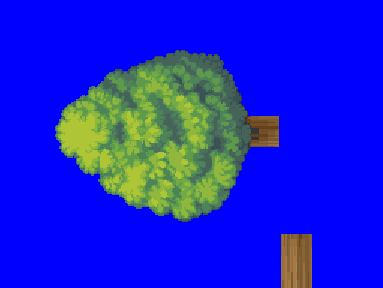
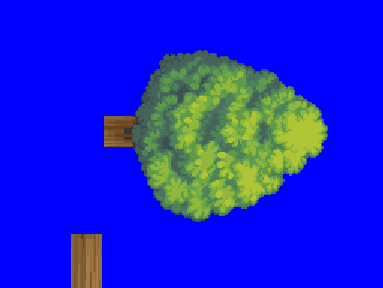
Coreographe falling tree scene + Enable WorldMap to be translated for better view

Changed region(s): [[0.1436, 0.1562, 0.8616, 0.7812], [0.718, 0.8125, 0.8329, 1.0], [0.1723, 0.8125, 0.2872, 1.0]]

diff --git a/GreenBlood/src/br/com/greenblood/world/GameWorld.java b/GreenBlood/src/br/com/greenblood/world/GameWorld.java
@@ -13,6 +13,7 @@ import br.com.greenblood.hud.DirectionalControls;
 import br.com.greenblood.hud.EnemyStatsView;
 import br.com.greenblood.hud.PlayerStatsView;
 import br.com.greenblood.math.Vector2D;
+import br.com.greenblood.pieces.Entity;
 import br.com.greenblood.pieces.World;
 import br.com.greenblood.pieces.movable.Enemy;
 import br.com.greenblood.pieces.movable.Player;
@@ -36,7 +37,8 @@ public class GameWorld {
     private final DirectionalControls controls;
     private final ActionControls actions;
 	private Scene scene;
-	private boolean blockInput;
+	private boolean blockMove;
+	private int offsetX;
     
     private GameWorld(DirectionalControls controls, ActionControls actions) {
         this.controls = controls;
@@ -47,7 +49,8 @@ public class GameWorld {
     }
 
     public void proccessAI(long uptime) {
-    	if(!blockInput)
+    	worldScene.onProcessPhaseStarted();
+    	if(!blockMove)
     		worldScene.processLogics(uptime);
         worldScene.processAnimationLogics(uptime);
     }
@@ -57,7 +60,7 @@ public class GameWorld {
 
         canvas.drawRect(surfaceSize, Paints.BLUE);
 
-        Vector2D offset = worldMap.draw(canvas, player.pos());
+        Vector2D offset = worldMap.draw(canvas, player.pos(), offsetX);
         worldScene.draw(canvas, surfaceSize, offset);
         
         canvas.restore();
@@ -99,14 +102,13 @@ public class GameWorld {
 	public void showEnemyStats(Enemy enemy) {
 		enemyStatsView.display(enemy);
 	}
-
+	
 	public void display(String txt){
-		lockInput();
-		gameActivity.hideControllers();
+		lockScreen();
 		gameActivity.display(txt, new Listener<Void>() {
 			@Override
 			public boolean on(Void t) {
-				unlockInput();
+				unlockMove();
 				gameActivity.dialog().hide();
 				gameActivity.showControllers();
 				return false;
@@ -114,14 +116,31 @@ public class GameWorld {
 		});
 	}
 
-	public void lockInput() {
-		blockInput = true;
+	public void lockScreen() {
+		player.stop();
+		lockMove();
+		gameActivity.hideControllers();
+	}
+	
+	public void unlockScreen() {
+		unlockMove();
+		gameActivity.showControllers();
+	}
+
+	public void lockMove() {
+		blockMove = true;
+	}
+	
+	public void unlockMove() {
+		blockMove = false;
+	}
+
 	public void addEntity(Entity ent) {
 		worldScene.postAdd(ent);
 	}
 	
-	public void unlockInput() {
-		blockInput = false;
+	public void offsetDraw(int offsetX){
+		this.offsetX = offsetX;
 	}
 
 }

diff --git a/GreenBlood/src/br/com/greenblood/history/mock/SceneMaker.java b/GreenBlood/src/br/com/greenblood/history/mock/SceneMaker.java
@@ -85,7 +85,6 @@ public class SceneMaker {
 			tiles[col][16] = floor();
 		}
 		
-		
 		scene.addObjectCreator(new ObjectCreator() {
 			@Override
 			public Entity create() {
@@ -95,7 +94,6 @@ public class SceneMaker {
 				return problem;
 			}
 		});
-		
 		
 		// Fall
 		tiles[18][11] = mountainCornerRight();
@@ -120,20 +118,29 @@ public class SceneMaker {
 		tiles[20][16] = mountain();
 		tiles[21][16] = mountain();
 
-		// TODO: first enemy (tree)
+		// first enemy (tree)
+		
+		scene.addObjectCreator(new ObjectCreator() {
+			@Override
+			public Entity create() {
+				Trigger problem = SceneOneObjects.cutTrigger();
+				int bottom = GameCore.tilesToPixels(16);
+				problem.pos().set(GameCore.tilesToPixels(30), bottom - problem.height() / 2);
+				return problem;
+			}
+		});
+		
 
 		scene.addObjectCreator(new ObjectCreator() {
 			@Override
 			public Entity create() {
-				StaticObject tree = SceneOneObjects.tree();
+				StaticObject tree = SceneOneObjects.beingCuttedTree();
 				int bottom = GameCore.tilesToPixels(16);
 				tree.pos().set(GameCore.tilesToPixels(34),
 						bottom - tree.height() / 2);
 				return tree;
 			}
 		});
-		
-		addEnemy(scene, 35, 16);
 		
 		// Up (XXX: see anti-word of fall)
 		tiles[37][16] = mountainJoinCornerLeft();
@@ -218,14 +225,17 @@ public class SceneMaker {
 		scene.addObjectCreator(new ObjectCreator() {
 			@Override
 			public Entity create() {
-				Enemy ent = new Enemy(new Rect(0, 0, 42, 128), new Rect(0, 0,
-						30, 128));
+				Enemy ent = enemy();
 				int bottom = GameCore.tilesToPixels(y);
 				ent.pos().set(GameCore.tilesToPixels(x),
 						bottom - ent.height() / 2);
 				return ent;
 			}
 		});
+	}
+
+	public static Enemy enemy() {
+		return new Enemy(new Rect(0, 0, 42, 128), new Rect(0, 0, 30, 128));
 	}
 
 }

diff --git a/GreenBlood/src/br/com/greenblood/pieces/scene/one/FallingTree.java b/GreenBlood/src/br/com/greenblood/pieces/scene/one/FallingTree.java
@@ -1,0 +1,52 @@
+package br.com.greenblood.pieces.scene.one;
+
+import android.graphics.Bitmap;
+import android.graphics.Rect;
+import br.com.greenblood.history.mock.SceneMaker;
+import br.com.greenblood.img.Sprite;
+import br.com.greenblood.pieces.StaticObject;
+import br.com.greenblood.pieces.movable.Enemy;
+import br.com.greenblood.util.ImageLoader;
+import br.com.greenblood.util.Listener;
+import br.com.greenblood.world.GameWorld;
+
+public class FallingTree extends StaticObject {
+	// TODO: Remove static reference
+	public static FallingTree instance;
+
+	public FallingTree(Rect bounds) {
+		super(bounds);
+		
+		instance = this;
+
+		setSprite(new Sprite(new Bitmap[] {
+				ImageLoader.image("falling_tree/cutting_tree1.PNG"),
+				ImageLoader.image("falling_tree/cutting_tree2.PNG"),
+				ImageLoader.image("falling_tree/cutting_tree3.PNG"),
+				ImageLoader.image("falling_tree/cutting_tree4.PNG") }, 600,
+				true));
+	}
+	
+	public void cut(Listener<Void> listener){
+		Sprite sprite = new Sprite(new Bitmap[] {
+				ImageLoader.image("falling_tree/tree.PNG"),
+				ImageLoader.image("falling_tree/tree2.PNG"),
+				ImageLoader.image("falling_tree/tree3.PNG"),
+				ImageLoader.image("falling_tree/tree4.PNG") }, 800,
+				false);
+		sprite.addOnAnimationEndListener(new Listener<Void>() {
+			@Override
+			public void fire(Void t) {
+				//TODO: Correct position of enemy
+				Enemy enemy = SceneMaker.enemy();
+				int bottom = currentBounds().bottom - enemy.height();
+				int left = currentBounds().left + 100;
+				enemy.pos().set(left, bottom);
+				GameWorld.world().addEntity(enemy);
+			}
+		});
+		sprite.addOnAnimationEndListener(listener);
+		setSprite(sprite);
+	}
+
+}

diff --git a/GreenBlood/src/br/com/greenblood/history/mock/SceneOneObjects.java b/GreenBlood/src/br/com/greenblood/history/mock/SceneOneObjects.java
@@ -5,7 +5,9 @@ import android.graphics.Rect;
 import br.com.greenblood.img.Sprite;
 import br.com.greenblood.pieces.StaticObject;
 import br.com.greenblood.pieces.Trigger;
+import br.com.greenblood.pieces.scene.one.FallingTree;
 import br.com.greenblood.pieces.scene.one.TheresAProblemAheadTrigger;
+import br.com.greenblood.pieces.scene.one.TreeCutterTrigger;
 import br.com.greenblood.pieces.scene.one.WhatABeutifullDayTrigger;
 import br.com.greenblood.util.ImageLoader;
 
@@ -23,14 +25,8 @@ public class SceneOneObjects {
 		return fire;
 	}
 	
-	public static StaticObject tree() {
-		StaticObject tree = new StaticObject(new Rect(0, 0, 383, 288));
-		tree.setSprite(new Sprite(new Bitmap[] { ImageLoader.image("falling_tree/tree.PNG"),
-				ImageLoader.image("falling_tree/tree2.PNG"),
-				ImageLoader.image("falling_tree/tree3.PNG"),
-				ImageLoader.image("falling_tree/tree4.PNG")
-		}, 800, true));
-		return tree;
+	public static StaticObject beingCuttedTree() {
+		return new FallingTree(new Rect(0, 0, 383, 288));
 	}
 
 	public static Trigger welcomeTrigger() {
@@ -39,6 +35,8 @@ public class SceneOneObjects {
 	
 	public static Trigger problemTrigger() {
 		return new TheresAProblemAheadTrigger(new Rect(0,0,40,80));
+	public static Trigger cutTrigger() {
+		return new TreeCutterTrigger(new Rect(0,0,40,200));
 	}
 
 }

diff --git a/GreenBlood/src/br/com/greenblood/pieces/scene/one/TreeCutterTrigger.java b/GreenBlood/src/br/com/greenblood/pieces/scene/one/TreeCutterTrigger.java
@@ -1,0 +1,46 @@
+package br.com.greenblood.pieces.scene.one;
+
+import android.graphics.Rect;
+import android.os.Handler;
+import br.com.greenblood.core.GameCore;
+import br.com.greenblood.history.mock.SceneMaker;
+import br.com.greenblood.history.mock.SceneOneObjects;
+import br.com.greenblood.pieces.Trigger;
+import br.com.greenblood.pieces.movable.Enemy;
+import br.com.greenblood.util.Listener;
+import br.com.greenblood.world.GameWorld;
+
+public class TreeCutterTrigger extends Trigger {
+
+	public TreeCutterTrigger(Rect bounds) {
+		super(bounds);
+	}
+
+	@Override
+	public void onFired() {
+		GameWorld.world().lockScreen();
+		GameWorld.world().offsetDraw(90); // TODO: smoothly do that
+		coreographer.sendEmptyMessageDelayed(START_FALL, 2000);
+	}
+	
+	private static final int START_FALL = 0;
+	private static final int RESUME_GAME = 1;
+
+	private Handler coreographer = new Handler() {
+		public void handleMessage(android.os.Message msg) {
+			if(msg.what == START_FALL)
+				FallingTree.instance.cut(new Listener<Void>() {
+					@Override
+					public void fire(Void t) {
+						sendEmptyMessage(RESUME_GAME);
+					}
+				});
+			
+			if(msg.what == RESUME_GAME){
+				GameWorld.world().offsetDraw(0); // TODO: smoothly do that
+				GameWorld.world().unlockScreen();
+			}
+		};
+	};
+
+}

diff --git a/GreenBlood/src/br/com/greenblood/dev/Paints.java b/GreenBlood/src/br/com/greenblood/dev/Paints.java
@@ -6,6 +6,7 @@ import android.graphics.Paint.Style;
 
 public class Paints {
     public static final Paint TRANS_BLACK, BLACK, BLACK_STROKE, BLUE, WHITE, RED;
+    public static final Paint RED_WRITE;
     public static final Paint STROKE_BLUE;
     public static final Paint BLANK = new Paint();
     
@@ -30,6 +31,9 @@ public class Paints {
         
         RED = new Paint();
         RED.setColor(Color.RED);
+        
+        RED_WRITE = new Paint(RED);
+        RED_WRITE.setStrokeWidth(2);
         
         STROKE_BLUE = new Paint();
         STROKE_BLUE.setColor(Color.BLUE);

diff --git a/GreenBlood/src/br/com/greenblood/world/WorldMap.java b/GreenBlood/src/br/com/greenblood/world/WorldMap.java
@@ -31,10 +31,10 @@ public class WorldMap {
         GameCore.setAppliedScale(((float) estimatedTileSize) / ((float) GameCore.TILE_SIZE));
     }
 
-    public Vector2D draw(Canvas canvas, Vector2D player) {
+    public Vector2D draw(Canvas canvas, Vector2D player, int offset) {
         canvas.save();
 
-        int offsetX = screenWidth / 2 - Math.round(player.x());
+        int offsetX = screenWidth / 2 - Math.round(player.x() + offset);
         offsetX = Math.max(Math.min(offsetX, 0), screenWidth - width());
 
         int firstTileX = GameCore.pixelsToTiles(-offsetX);

diff --git a/GreenBlood/src/br/com/greenblood/pieces/movable/Character.java b/GreenBlood/src/br/com/greenblood/pieces/movable/Character.java
@@ -76,6 +76,10 @@ public abstract class Character extends MovableEntity {
 		target.hit();
 	}
 	
+	protected Sprite standingSprite(){
+		return standingSprite;
+	}
+	
 	public abstract void hit();
 	protected abstract Sprite walkingSprite();
 	protected abstract Sprite punchingSprite();

diff --git a/GreenBlood/src/br/com/greenblood/pieces/movable/Player.java b/GreenBlood/src/br/com/greenblood/pieces/movable/Player.java
@@ -133,4 +133,8 @@ public class Player extends Character {
 		this.statsView = statsView;
 		statsView.setMaximumHealth(maxHelth);
 	}
+
+	public void stop() {
+		execute(standingSprite(), false);
+	}
 }
